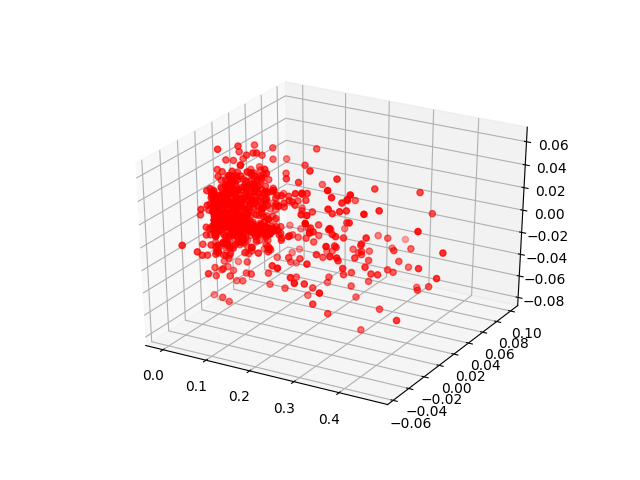
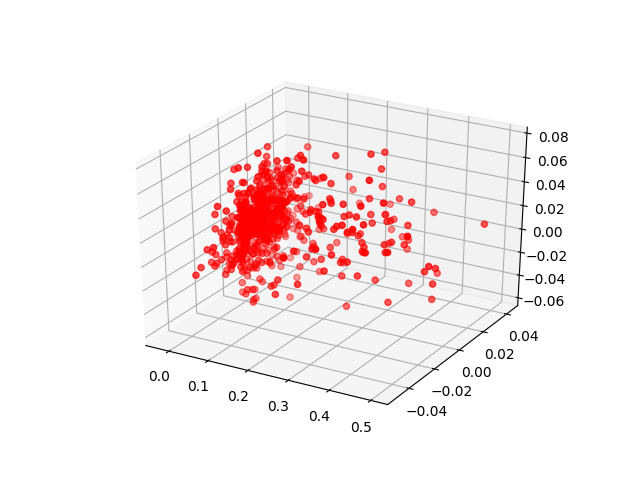
output shape tested

diff --git a/test_autoencoder.py b/test_autoencoder.py
@@ -13,6 +13,8 @@ import for_plot
 batch_size = 10  # Number of samples in each batch
 epoch_num = 50  # Number of epochs to train the network
 lr = 0.0001  # Learning rate
+OUTPUT_SIZE = 32 # size of the output volume produced by decoder
+INPUT_SIZE = 32 # size of the input volume given to the encoder
 
 def interpolationBetnLatentSpace(z1, z2):
     mx = 100
@@ -54,10 +56,6 @@ def loadfile():
     return input_file
 
 
-# read dataset
-input_file = loadfile()  # load 50 chairs as volume with shape [50,32768]
-
-
 def autoencoder(inputs):
     # encoder
     # 32 x 32 x 32 x 1   -> 16 x 16 x 16 x 32
@@ -84,11 +82,11 @@ def next_batch(next_batch_array, batchsize, offset):
     rowEnd = (rowStart + batchsize) - 1
     return next_batch_array[rowStart:rowEnd, :]
 
+# --------------------read dataset----------------------
+input_file = loadfile()  # load 50 chairs as volume with shape [50,32768]
 
 
-# calculate the number of batches per epoch
-
-
+# ----------------- calculate the number of batches per epoch --------------------
 batch_per_ep = input_file.shape[0] // batch_size  # batch per epoch will be 5 [input total = 50 divided by batch-size = 10 ]
 
 ae_inputs = tf.placeholder(tf.float32, (None, 32, 32, 32, 1))  # input to the network (MNIST images)
@@ -99,7 +97,7 @@ l_space, ae_outputs = autoencoder(ae_inputs)  # create the Autoencoder network
 loss = tf.reduce_mean(tf.square(ae_outputs - ae_inputs))  # calculate the mean square error loss
 train_op = tf.train.AdamOptimizer(learning_rate=lr).minimize(loss)
 
-# initialize the network
+# -----------------------initialize the network---------------------------------
 init = tf.global_variables_initializer()
 
 with tf.Session() as sess:
@@ -113,7 +111,7 @@ with tf.Session() as sess:
             print('Epoch: {} - cost= {:.5f}'.format((ep + 1), c))
 
 
-    # test the trained network
+    # ------------------test the trained network-------------------------------
     #batch_img = next_batch(input_file,1,0)
 
     # Test for the first input volume shape
@@ -123,39 +121,60 @@ with tf.Session() as sess:
     l_space1 = sess.run([l_space,ae_outputs], feed_dict={ae_inputs: batch_img})[0]
     print("this is test shape type", type(recon_img))
     print(recon_img.shape)
+    out = recon_img[0, ..., 0]
+    #out = np.reshape(out, (32, 32, 32)).astype(np.float32)
 
-    # plot the output shape of test image
-    #for_plot.plotOutput(recon_img)
+
+    # ----------------plot the output shape of test image------------------------------
 
 
-    out = recon_img[0,...,0]
+    z, x, y = out.nonzero()
+    fig = plt.figure()
+    ax = fig.add_subplot(111, projection='3d')
+    ax.scatter(x, y, z, zdir='z', c='red')
+    plt.savefig('output_data/demo_testMethod0.png')
 
-    out = np.reshape(out, (32, 32, 32)).astype(np.float32)
     print("this is type of the test shape after converting to numpy array", type(out),out.shape)
     for i in out[0,:,:]:
         print(i)
-    #print(out)
-    # plot the reconstructed images and their ground truths (inputs)
 
-    # test method 1
-    '''z, x, y = out.nonzero()
+    # --------------------------plot the reconstructed images and their ground truths (inputs)----------------------
+
+    # ------------------------Test method 1--------------------------------------------
+    test_first_input = input_file[0,:]
+    test_first_input = np.reshape(test_first_input, (OUTPUT_SIZE, OUTPUT_SIZE, OUTPUT_SIZE)).astype(np.float32)
+    z, x, y = test_first_input.nonzero()
     fig = plt.figure()
     ax = fig.add_subplot(111, projection='3d')
-    #ax.scatter(x, y, -z, zdir='z', c='red')
-    ax.plot(out[:,0],out[:,1],out[:,2])
-    plt.savefig('reconstruct1.png')'''
+    ax.scatter(x, y, z, zdir='z', c='red')
+    plt.savefig('output_data/demo_testMethod1.png')
 
-    # test method 2
+    # -----------------------------test method 2----------------------------------------
 
     fig = plt.figure()
     ax = fig.add_subplot(111, projection='3d')
     xdata = out[0, :, :]
-    #print("This is first row",xdata)
     ydata = out[:, 1, :]
     zdata = out[:, :, 2]
     ax.scatter3D(xdata, ydata, zdata, zdir='z', c='red')
-    plt.savefig('output_data/demo' + str(1) + '.png')
+    plt.savefig('output_data/demo_testMethod2.png')
 
+    # ------------------------------test method 3-----------------------------------------
+    plotOutArr = np.array([])
+    for i in range(0, OUTPUT_SIZE):
+        for j in range(0, OUTPUT_SIZE):
+            for k in range(0, OUTPUT_SIZE):
+                if out[i,j,k] < 0.05:
+                    plotOutArr = np.append(plotOutArr, 1)
+                else:
+                    plotOutArr = np.append(plotOutArr, 0)
+
+    output_image = np.reshape(plotOutArr, (OUTPUT_SIZE, OUTPUT_SIZE, OUTPUT_SIZE)).astype(np.float32)
+    z, x, y = output_image.nonzero()
+    fig = plt.figure()
+    ax = fig.add_subplot(111, projection='3d')
+    ax.scatter(x, y, z, zdir='z', c='red')
+    plt.savefig('output_data/demo_testMethod3.png')
 
     '''start = timer()
     new_z = interpolationBetnLatentSpace(l_space1)

diff --git a/pract.py b/pract.py
@@ -1,0 +1,10 @@
+import numpy as np
+
+out = np.array([[[1,0,0], [0,2,0], [1,1,0]],
+                [[1,0,0], [0,2,0], [1,1,0]],
+                [[1,0,0], [0,2,0], [1,1,0]]])
+print("This is the shape of out", out.shape)
+z,x,y = out.nonzero()
+print("This is z", type(z),z.shape,z)
+print("This is x", type(x),x.shape,x)
+print("This is y", type(y),y.shape,y)
